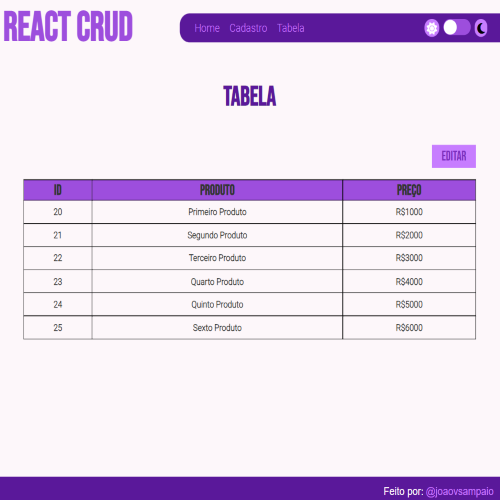
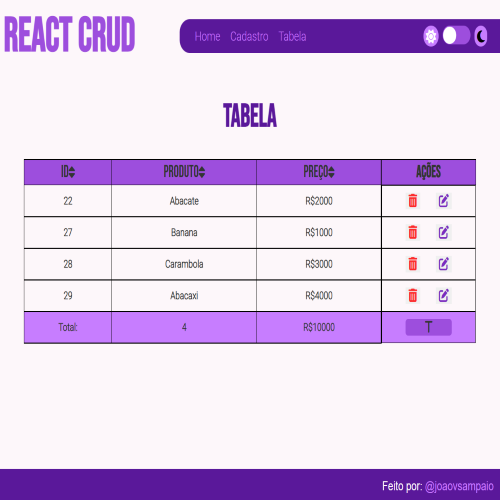
melhorias

diff --git a/client/src/components/Table.jsx b/client/src/components/Table.jsx
@@ -1,8 +1,9 @@
 import React, { useEffect, useState } from "react";
 import styled from "styled-components";
-import Axios from "axios";
 import { useNavigate } from "react-router-dom";
 import Loading from "../assets/img/loading.gif";
+import { dbDeleteProduct, getProducts, queryDb } from "../utils/http";
+import { ModalError } from "../utils/Modal";
 
 const Container = styled.div`
   display: flex;
@@ -20,13 +21,24 @@ const Container = styled.div`
     border-collapse: collapse;
 
     thead {
-      font-size: 1.6rem;
-      font-family: var(--fontBebas);
+      button {
+        font-family: var(--fontBebas);
+        font-size: 1.6rem;
+        border: none;
+        color: ${({ theme }) => theme.colors.text};
+        background-color: ${({ theme }) => theme.colors.details};
+      }
 
       th {
+        font-family: var(--fontBebas);
+        font-size: 1.6rem;
         border: 1px solid black;
         color: ${({ theme }) => theme.colors.text};
         background-color: ${({ theme }) => theme.colors.details};
+      }
+
+      i {
+        font-size: 20px;
       }
     }
 
@@ -65,6 +77,24 @@ const Container = styled.div`
         justify-content: space-between;
       }
     }
+
+    #tableInfo {
+      background-color: ${({ theme }) => theme.colors.other};
+      color: ${({ theme }) => theme.colors.text};
+
+      td:has(button) {
+        padding: 10px 25%;
+        display: flex;
+        justify-content: center;
+      }
+
+      button {
+        width: 100%;
+        border-radius: 5px;
+        color: ${({ theme }) => theme.colors.text};
+        background-color: ${({ theme }) => theme.colors.details};
+      }
+    }
   }
 
   @media (max-width: 760px) {
@@ -82,42 +112,125 @@ const Container = styled.div`
           justify-content: center;
         }
       }
+
+      #tableInfo {
+        button {
+          width: fit-content;
+        }
+      }
     }
   }
 `;
 
+const Fallback = styled.div`
+  display: flex;
+  width: 100%;
+  height: 100%;
+  align-items: center;
+  justify-content: center;
+`;
+
 function Table() {
   const [productsList, setProductsList] = useState([]);
+  const [maxValue, setMaxValue] = useState(0);
+  const [maxLength, setMaxLength] = useState(0);
+  const [avarage, setAvarage] = useState(0);
+  const [valueMode, setValueMode] = useState(false);
+  const [queryOrder, setQueryOrder] = useState(true);
+  const [iconId, setIconId] = useState("fa-solid fa-sort");
+  const [iconProduct, setIconProduct] = useState("fa-solid fa-sort");
+  const [iconValue, setIconValue] = useState("fa-solid fa-sort");
+  const [loading, setLoading] = useState(false);
 
   const navigate = useNavigate();
 
-  useEffect(() => {
-    const getProducts = () => {
-      Axios.get("http://localhost:3001/products")
-        .then((res) => {
-          setProductsList(res.data);
-        })
-        .catch(() => {
-          document.getElementById("loading").style.display = "block";
-        });
-    };
+  const fetchData = async () => {
+    try {
+      setLoading(true);
+      const response = await getProducts();
+      setLoading(false);
+      setProductsList(response);
+    } catch {
+      ModalError();
+    }
+  };
 
-    getProducts();
+  const queryData = async () => {
+    const response = await getProducts();
+    const columnValor = response.map((item) => item.valor);
+    setMaxValue(
+      columnValor.reduce(
+        (accumulator, currentValue) => accumulator + currentValue,
+        0
+      )
+    );
+    setMaxLength(response.length);
+    setAvarage(columnValor.reduce((a, b) => a + b, 0) / response.length || 0);
+  };
+
+  useEffect(() => {
+    fetchData();
+    queryData();
   }, []);
 
   const updateProduct = (id) => {
     navigate(`/update/${id}`);
   };
 
-  const deleteProduct = (id) => {
-    Axios.delete(`http://localhost:3001/products/${id}`).then(() => {
+  const deleteProduct = async (id) => {
+    try {
+      await dbDeleteProduct(id);
       setProductsList(
         productsList.filter((val) => {
           return val.id != id;
         })
       );
-    });
+    } catch {
+      ModalError();
+    }
   };
+
+  const iconQuery = (column) => {
+    if (column === "id" && queryOrder === false) {
+      setIconId("fa-solid fa-sort-down");
+    } else {
+      setIconId("fa-solid fa-sort-up");
+    }
+
+    if (column === "produto" && queryOrder === false) {
+      setIconProduct("fa-solid fa-sort-down");
+    } else {
+      setIconProduct("fa-solid fa-sort-up");
+    }
+
+    if (column === "valor" && queryOrder === false) {
+      setIconValue("fa-solid fa-sort-down");
+    } else {
+      setIconValue("fa-solid fa-sort-up");
+    }
+  };
+
+  const fetchOrder = async (column) => {
+    try {
+      setLoading(true);
+      const response = await queryDb(column);
+      setLoading(false);
+      setQueryOrder(!queryOrder);
+      iconQuery(column);
+      setProductsList(response);
+      queryOrder === false && setProductsList(response.reverse());
+    } catch {
+      ModalError();
+    }
+  };
+
+  if (loading) {
+    return (
+      <Fallback>
+        <img src={Loading} alt="Carregando..." />
+      </Fallback>
+    );
+  }
 
   return (
     <Container>
@@ -125,14 +238,29 @@ function Table() {
       <table>
         <thead>
           <tr>
-            <th>ID</th>
-            <th>Produto</th>
-            <th>Preço</th>
+            <th>
+              <button onClick={() => fetchOrder("id")}>
+                ID
+                <i className={iconId} />
+              </button>
+            </th>
+            <th>
+              <button onClick={() => fetchOrder("produto")}>
+                Produto
+                <i className={iconProduct} />
+              </button>
+            </th>
+            <th>
+              <button onClick={() => fetchOrder("valor")}>
+                Preço
+                <i className={iconValue} />
+              </button>
+            </th>
             <th>Ações</th>
           </tr>
         </thead>
         <tbody>
-          {productsList.map((val, key) => {
+          {productsList.map((val) => {
             return (
               <tr key={val.id}>
                 <td>{val.id}</td>
@@ -149,14 +277,18 @@ function Table() {
               </tr>
             );
           })}
+          <tr id="tableInfo">
+            <td>{valueMode ? "Média:" : "Total:"}</td>
+            <td>{maxLength}</td>
+            <td>R${valueMode ? avarage : maxValue}</td>
+            <td>
+              <button onClick={() => setValueMode(!valueMode)}>
+                <i className={valueMode ? "fa-solid fa-m" : "fa-solid fa-t"} />
+              </button>
+            </td>
+          </tr>
         </tbody>
       </table>
-      <img
-        src={Loading}
-        alt="Carregando..."
-        id="loading"
-        style={{ display: "none" }}
-      ></img>
     </Container>
   );
 }

diff --git a/client/src/components/Update.jsx b/client/src/components/Update.jsx
@@ -1,8 +1,8 @@
 import React, { useEffect, useState } from "react";
 import styled from "styled-components";
-import Axios from "axios";
 import { ModalSuccess, ModalError } from "../utils/Modal";
 import { useParams } from "react-router-dom";
+import { dbUpdateProduct, getProducts } from "../utils/http";
 
 const Container = styled.div`
   display: flex;
@@ -94,15 +94,16 @@ function Update() {
   const [helperText, setHelperText] = useState("");
 
   useEffect(() => {
-    const getProducts = () => {
-      Axios.get("http://localhost:3001/products")
-        .then((res) => {
-          setProductsList(res.data);
-        })
-        .catch(() => alert("Algo deu Errado"));
+    const fetchData = async () => {
+      try {
+        const response = await getProducts();
+        setProductsList(response);
+      } catch (e) {
+        console.log(e);
+      }
     };
 
-    getProducts();
+    fetchData();
   }, []);
 
   useEffect(() => {
@@ -118,18 +119,13 @@ function Update() {
     }
   }, [newProduct, newPrice]);
 
-  const updateProduct = (id) => {
-    Axios.put("http://localhost:3001/products", {
-      product: newProduct,
-      price: newPrice,
-      id: id,
-    })
-      .then(() => {
-        ModalSuccess();
-      })
-      .catch(() => {
-        ModalError();
-      });
+  const updateProduct = async (id) => {
+    try {
+      await dbUpdateProduct(newProduct, newPrice, id);
+      ModalSuccess();
+    } catch {
+      ModalError();
+    }
   };
 
   const productsListFilter = productsList.filter((val) => {

diff --git a/server/index.js b/server/index.js
@@ -40,6 +40,36 @@ app.get("/products", (req, res) => {
   });
 });
 
+app.get("/products/valor", (req, res) => {
+  db.query(`SELECT * FROM cruddatas ORDER BY valor`, (err, result) => {
+    if (err) {
+      console.log(err);
+    } else {
+      res.send(result);
+    }
+  });
+});
+
+app.get("/products/id", (req, res) => {
+  db.query(`SELECT * FROM cruddatas ORDER BY id`, (err, result) => {
+    if (err) {
+      console.log(err);
+    } else {
+      res.send(result);
+    }
+  });
+});
+
+app.get("/products/produto", (req, res) => {
+  db.query(`SELECT * FROM cruddatas ORDER BY produto`, (err, result) => {
+    if (err) {
+      console.log(err);
+    } else {
+      res.send(result);
+    }
+  });
+});
+
 app.put("/products", (req, res) => {
   const id = req.body.id;
   const product = req.body.product;

diff --git a/client/src/utils/http.js b/client/src/utils/http.js
@@ -1,0 +1,24 @@
+import Axios from "axios";
+
+export const getProducts = async () => {
+  const response = await Axios.get("http://localhost:3001/products");
+  return response.data;
+};
+
+export const queryDb = async (column) => {
+  const response = await Axios.get(`http://localhost:3001/products/${column}`);
+  return response.data;
+};
+
+export const dbDeleteProduct = async (id) => {
+  const response = await Axios.delete(`http://localhost:3001/products/${id}`);
+  return response.data;
+};
+
+export const dbUpdateProduct = async (newProduct, newPrice, id) => {
+  return await Axios.put("http://localhost:3001/products", {
+    product: newProduct,
+    price: newPrice,
+    id: id,
+  });
+};
